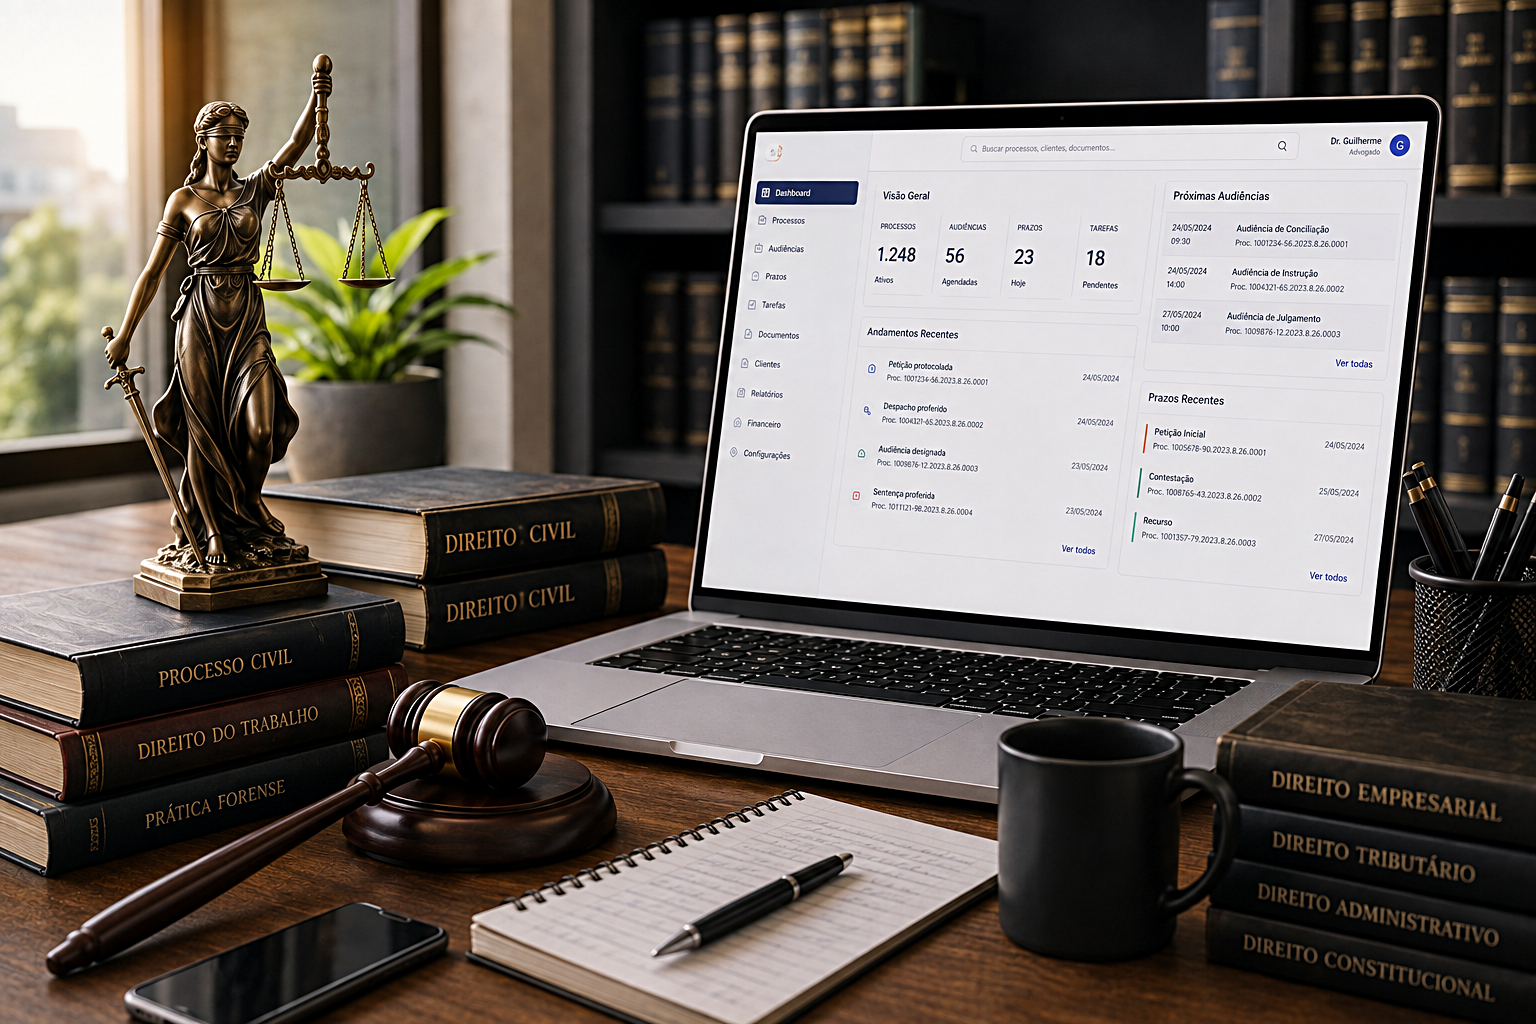
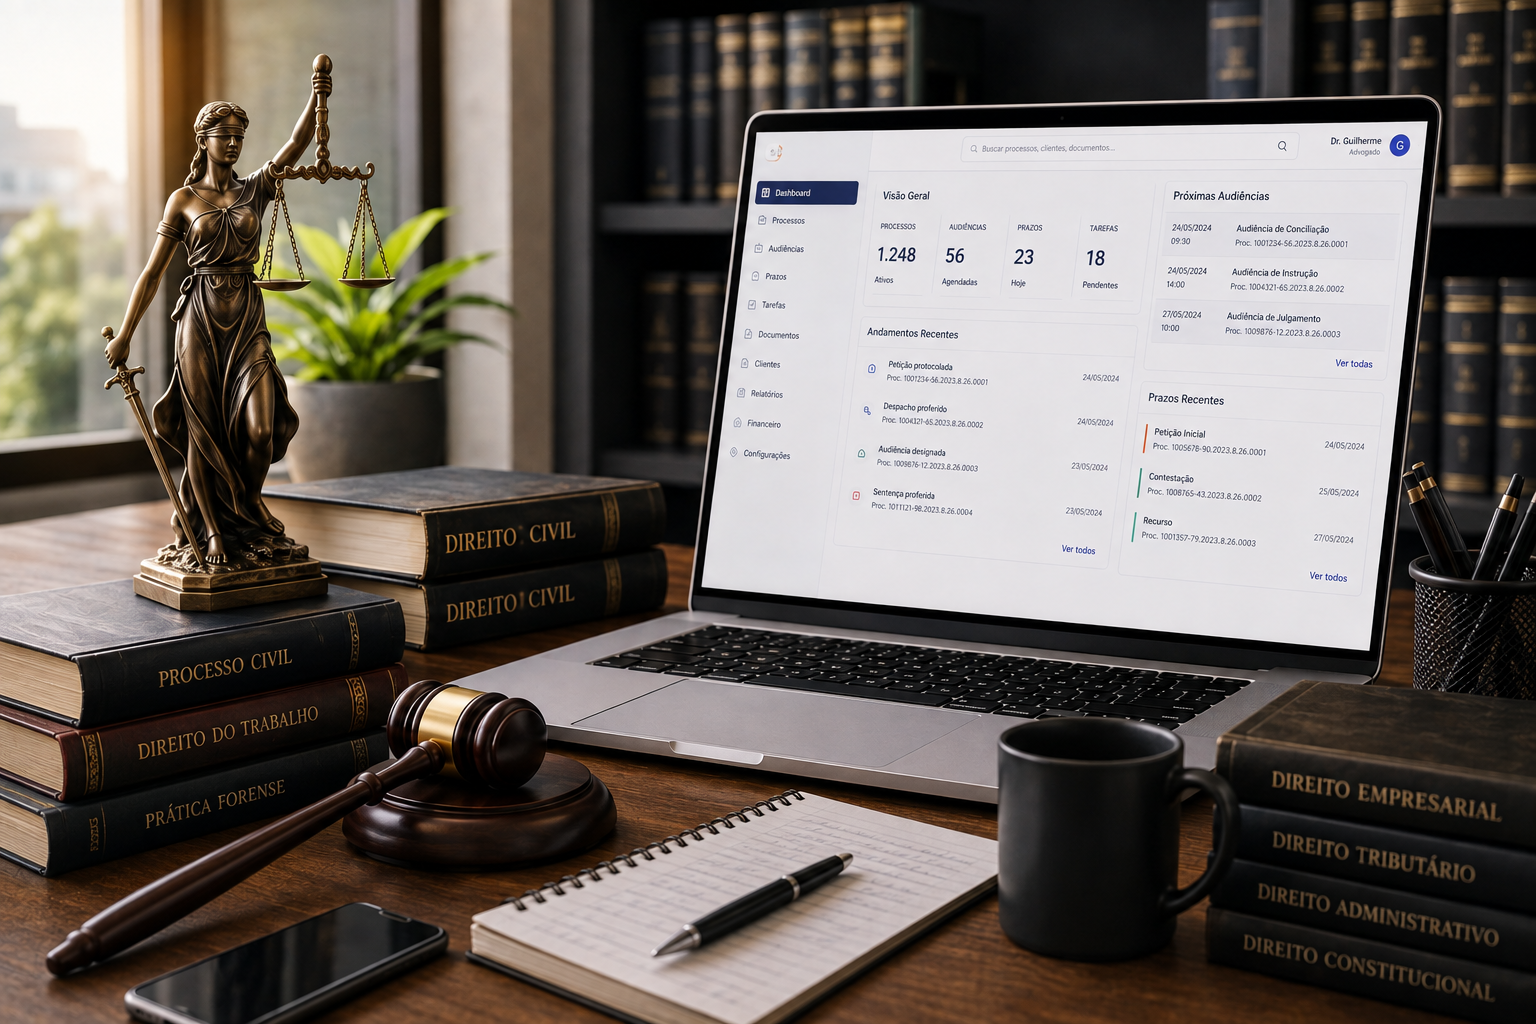
inicio

diff --git a/static/style.css b/static/style.css
@@ -617,7 +617,7 @@ input[readonly] {
   display: flex;
   align-items: flex-start;
   justify-content: center;
-  padding: 16px 24px 24px;
+  padding: 80px 24px 24px; /* desce logo + imagem, alinhando com o topo dos cards */
   overflow: hidden;
   background: var(--creme-logo);
 }
